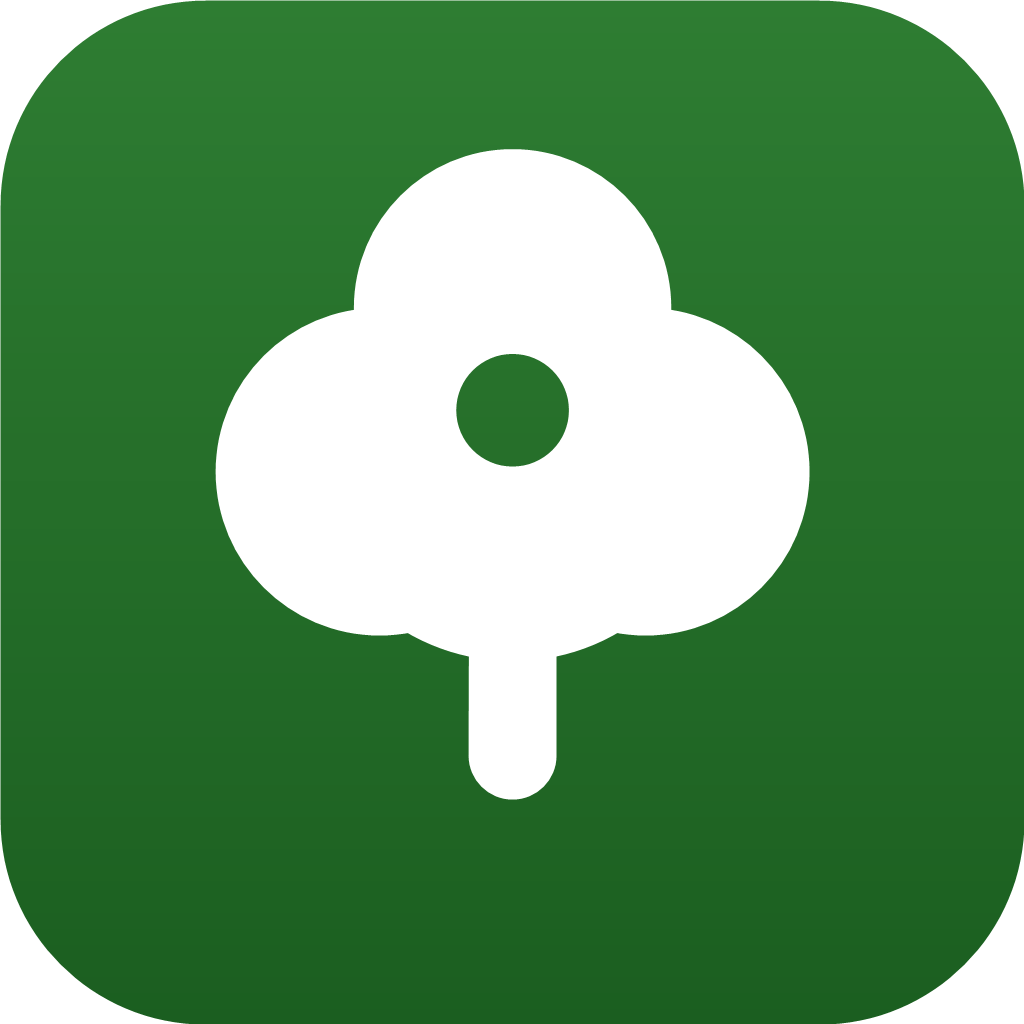
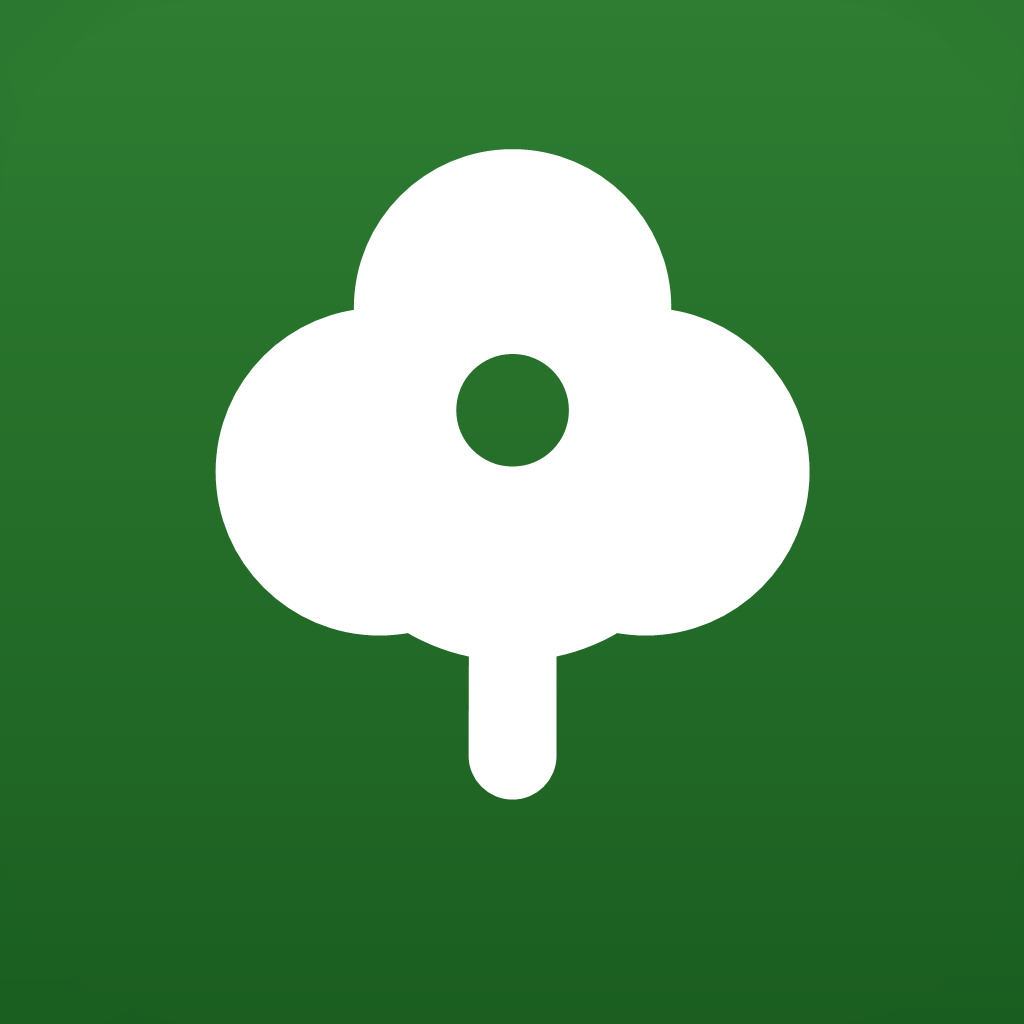
Dexware-Rebrand: CraftDex, DokuDex, TourDex, SchutzDex + Cross-Promo-Hub
Neue Anzeigenamen in App, Landing und Legal; WinterDex ueberall in die
Cross-Promo aufgenommen; Sektion "Entdecke die ganze Dexware" mit Link
auf den Dexware-Hub (craftlogapp.github.io). Technische IDs unveraendert.

diff --git a/index.html b/index.html
@@ -3,8 +3,8 @@
 <head>
   <meta charset="UTF-8" />
   <meta name="viewport" content="width=device-width, initial-scale=1.0" />
-  <title>CraftLog — Dein Projekt-Tagebuch</title>
-  <meta name="description" content="CraftLog ist das Projekt-Tagebuch für alles was du baust, lernst und trainierst. Schritte, Fotos, Kosten, Statistiken und Erinnerungen — an einem Ort." />
+  <title>CraftDex — Dein Projekt-Tagebuch</title>
+  <meta name="description" content="CraftDex ist das Projekt-Tagebuch für alles was du baust, lernst und trainierst. Schritte, Fotos, Kosten, Statistiken und Erinnerungen — an einem Ort." />
   <link rel="preconnect" href="https://fonts.googleapis.com">
   <link rel="preconnect" href="https://fonts.gstatic.com" crossorigin>
   <link href="https://fonts.googleapis.com/css2?family=Fraunces:opsz,wght@9..144,500;9..144,600;9..144,700&family=DM+Sans:wght@400;500;700&display=swap" rel="stylesheet">
@@ -124,7 +124,7 @@
           <rect width="100" height="100" rx="24" fill="#252118"/>
           <path d="M68 32 A24 24 0 1 0 68 68" stroke="#E8C97A" stroke-width="13" stroke-linecap="round" fill="none"/>
         </svg>
-        CraftLog
+        CraftDex
       </div>
       <nav>
         <a href="#features">Features</a>
@@ -150,8 +150,8 @@
         <span data-lang="en">Capture <span class="gold">what you build.</span></span>
       </h1>
       <p>
-        <span data-lang="de">Vom Schneidebrett über den Halbmarathon bis zur Sprachprüfung — CraftLog dokumentiert jeden Schritt, Fotos, Kosten und deinen Fortschritt. Mit Statistiken, Streak und Erinnerungen.</span>
-        <span data-lang="en">From a cutting board to a half marathon to a language exam — CraftLog documents every step, photos, costs and your progress. With statistics, streak and reminders.</span>
+        <span data-lang="de">Vom Schneidebrett über den Halbmarathon bis zur Sprachprüfung — CraftDex dokumentiert jeden Schritt, Fotos, Kosten und deinen Fortschritt. Mit Statistiken, Streak und Erinnerungen.</span>
+        <span data-lang="en">From a cutting board to a half marathon to a language exam — CraftDex documents every step, photos, costs and your progress. With statistics, streak and reminders.</span>
       </p>
       <div class="cta" id="download">
         <a class="btn btn-primary" href="#">Google Play</a>
@@ -258,23 +258,29 @@
 
     <section id="apps">
       <div class="section-label">
-        <span data-lang="de">Mehr von uns</span>
-        <span data-lang="en">More from us</span>
+        <span data-lang="de">Die Dexware-Familie</span>
+        <span data-lang="en">The Dexware family</span>
       </div>
       <h2 class="section-title">
-        <span data-lang="de">Weitere Apps</span>
-        <span data-lang="en">More apps</span>
+        <span data-lang="de">Entdecke die ganze Dexware</span>
+        <span data-lang="en">Discover the whole Dexware suite</span>
       </h2>
       <div class="features">
+        <a class="card applink" href="https://craftlogapp.github.io/winterdex-web">
+          <img class="appimg" src="winterdex-icon.png" alt="WinterDex" width="56" height="56" />
+          <h3>WinterDex</h3>
+          <p><span data-lang="de">Winterdienst-Nachweis – Räum- & Streueinsätze gerichtsfest dokumentieren.</span><span data-lang="en">Winter service log — court-proof records of clearing & gritting.</span></p>
+          <span class="more"><span data-lang="de">Ansehen →</span><span data-lang="en">View →</span></span>
+        </a>
         <a class="card applink" href="https://craftlogapp.github.io/routelog-web">
-          <img class="appimg" src="routelog-icon.png" alt="RouteLog" width="56" height="56" />
-          <h3>RouteLog</h3>
+          <img class="appimg" src="routelog-icon.png" alt="TourDex" width="56" height="56" />
+          <h3>TourDex</h3>
           <p><span data-lang="de">Automatisches Fahrtenbuch für Selbstständige.</span><span data-lang="en">Automatic mileage logbook for the self-employed.</span></p>
           <span class="more"><span data-lang="de">Ansehen →</span><span data-lang="en">View →</span></span>
         </a>
         <a class="card applink" href="https://craftlogapp.github.io/archio-web">
-          <img class="appimg" src="archio-icon.png" alt="Archio" width="56" height="56" />
-          <h3>Archio</h3>
+          <img class="appimg" src="archio-icon.png" alt="DokuDex" width="56" height="56" />
+          <h3>DokuDex</h3>
           <p><span data-lang="de">Dokumente scannen und per KI verstehen – Belege, Verträge und mehr.</span><span data-lang="en">Scan documents and understand them with AI — receipts, contracts & more.</span></p>
           <span class="more"><span data-lang="de">Ansehen →</span><span data-lang="en">View →</span></span>
         </a>
@@ -285,8 +291,8 @@
           <span class="more"><span data-lang="de">Ansehen →</span><span data-lang="en">View →</span></span>
         </a>
         <a class="card applink" href="https://craftlogapp.github.io/schutzheld-web">
-          <img class="appimg" src="schutzheld-icon.png" alt="Schutzheld" width="56" height="56" />
-          <h3>Schutzheld</h3>
+          <img class="appimg" src="schutzheld-icon.png" alt="SchutzDex" width="56" height="56" />
+          <h3>SchutzDex</h3>
           <p><span data-lang="de">Arbeitsschutz-Unterweisung & Gefährdungsbeurteilung – prüffest dokumentiert.</span><span data-lang="en">Workplace-safety briefings & risk assessment — audit-proof.</span></p>
           <span class="more"><span data-lang="de">Ansehen →</span><span data-lang="en">View →</span></span>
         </a>
@@ -297,20 +303,26 @@
           <span class="more"><span data-lang="de">Ansehen →</span><span data-lang="en">View →</span></span>
         </a>
       </div>
+      <p style="text-align:center;margin-top:28px">
+        <a class="btn btn-ghost" href="https://craftlogapp.github.io/">
+          <span data-lang="de">Alle Dexware-Apps auf einen Blick →</span>
+          <span data-lang="en">All Dexware apps at a glance →</span>
+        </a>
+      </p>
     </section>
   </div>
 
   <footer>
     <div class="wrap">
-      <div class="foot-brand">CraftLog</div>
+      <div class="foot-brand">CraftDex</div>
       <div>
         <a href="datenschutz.html"><span data-lang="de">Datenschutz</span><span data-lang="en">Privacy</span></a>
         <a href="agb.html"><span data-lang="de">AGB</span><span data-lang="en">Terms</span></a>
         <a href="impressum.html"><span data-lang="de">Impressum</span><span data-lang="en">Legal Notice</span></a>
       </div>
       <p style="margin-top:16px">
-        <span data-lang="de">© 2026 CraftLog. Mit ♥ gebaut.</span>
-        <span data-lang="en">© 2026 CraftLog. Built with ♥.</span>
+        <span data-lang="de">© 2026 CraftDex. Mit ♥ gebaut.</span>
+        <span data-lang="en">© 2026 CraftDex. Built with ♥.</span>
       </p>
     </div>
   </footer>

diff --git a/datenschutz.html b/datenschutz.html
@@ -3,7 +3,7 @@
 <head>
 <meta charset="UTF-8" />
 <meta name="viewport" content="width=device-width, initial-scale=1.0" />
-<title>Datenschutzerklärung — CraftLog</title>
+<title>Datenschutzerklärung — CraftDex</title>
 <style>
   body { background:#1C1A14; color:#F3EEE0; font-family: system-ui, sans-serif; line-height:1.7; max-width:760px; margin:0 auto; padding:48px 24px; }
   h1 { font-size:32px; margin-bottom:8px; }
@@ -42,9 +42,9 @@
 <!-- ===================== DEUTSCH ===================== -->
 <div data-lang="de">
 <h1>Datenschutzerklärung</h1>
-<p class="muted">App: CraftLog (com.craftlog.app) · Stand: Juni 2026</p>
+<p class="muted">App: CraftDex (com.craftlog.app) · Stand: Juni 2026</p>
 
-<p>Diese Datenschutzerklärung informiert dich darüber, welche personenbezogenen Daten bei der Nutzung der App CraftLog verarbeitet werden, zu welchem Zweck und welche Rechte dir zustehen.</p>
+<p>Diese Datenschutzerklärung informiert dich darüber, welche personenbezogenen Daten bei der Nutzung der App CraftDex verarbeitet werden, zu welchem Zweck und welche Rechte dir zustehen.</p>
 
 <h2>1. Verantwortlicher</h2>
 <div class="box">
@@ -56,7 +56,7 @@ E-Mail: <a href="mailto:2easy4trash@gmail.com">2easy4trash@gmail.com</a>
 </div>
 
 <h2>2. Grundsatz: lokale Nutzung möglich</h2>
-<p>CraftLog kann vollständig <strong>ohne Konto</strong> genutzt werden. In diesem Fall werden alle Daten (Projekte, Schritte, Material, Kosten, Zeiten, Fotos) <strong>ausschließlich lokal auf deinem Gerät</strong> gespeichert und nicht an uns oder Dritte übertragen.</p>
+<p>CraftDex kann vollständig <strong>ohne Konto</strong> genutzt werden. In diesem Fall werden alle Daten (Projekte, Schritte, Material, Kosten, Zeiten, Fotos) <strong>ausschließlich lokal auf deinem Gerät</strong> gespeichert und nicht an uns oder Dritte übertragen.</p>
 <p>Erst wenn du dich für die optionale <strong>Cloud-Synchronisierung</strong> anmeldest, werden Daten zu unserem Dienstleister übertragen (siehe Punkt 4).</p>
 
 <h2>3. Welche Daten werden verarbeitet?</h2>
@@ -119,9 +119,9 @@ Du kannst dein Konto und alle zugehörigen Daten jederzeit löschen – direkt i
 <!-- ===================== ENGLISH ===================== -->
 <div data-lang="en">
 <h1>Privacy Policy</h1>
-<p class="muted">App: CraftLog (com.craftlog.app) · As of: June 2026</p>
+<p class="muted">App: CraftDex (com.craftlog.app) · As of: June 2026</p>
 
-<p>This privacy policy informs you about which personal data is processed when using the CraftLog app, for what purpose, and which rights you have.</p>
+<p>This privacy policy informs you about which personal data is processed when using the CraftDex app, for what purpose, and which rights you have.</p>
 
 <h2>1. Controller</h2>
 <div class="box">
@@ -133,7 +133,7 @@ Email: <a href="mailto:2easy4trash@gmail.com">2easy4trash@gmail.com</a>
 </div>
 
 <h2>2. Principle: local use possible</h2>
-<p>CraftLog can be used entirely <strong>without an account</strong>. In that case all data (projects, steps, materials, costs, times, photos) is stored <strong>exclusively locally on your device</strong> and is not transmitted to us or any third party.</p>
+<p>CraftDex can be used entirely <strong>without an account</strong>. In that case all data (projects, steps, materials, costs, times, photos) is stored <strong>exclusively locally on your device</strong> and is not transmitted to us or any third party.</p>
 <p>Only when you sign up for the optional <strong>cloud synchronization</strong> is data transmitted to our service provider (see point 4).</p>
 
 <h2>3. Which data is processed?</h2>

diff --git a/agb.html b/agb.html
@@ -3,7 +3,7 @@
 <head>
 <meta charset="UTF-8" />
 <meta name="viewport" content="width=device-width, initial-scale=1.0" />
-<title>AGB — CraftLog</title>
+<title>AGB — CraftDex</title>
 <style>
   body { background:#1C1A14; color:#F3EEE0; font-family: system-ui, sans-serif; line-height:1.7; max-width:760px; margin:0 auto; padding:48px 24px; }
   h1 { font-size:32px; margin-bottom:8px; }
@@ -40,10 +40,10 @@
 <p class="muted">Stand: Juni 2026</p>
 
 <h2>1. Geltungsbereich</h2>
-<p>Diese AGB gelten für die Nutzung der App „CraftLog" (nachfolgend „App"), angeboten von CraftLog.</p>
+<p>Diese AGB gelten für die Nutzung der App „CraftDex" (nachfolgend „App"), angeboten von CraftDex.</p>
 
 <h2>2. Leistungen</h2>
-<p>CraftLog ist eine App zum Dokumentieren persönlicher Projekte. Die Basisfunktionen sind kostenlos. Über ein optionales „Pro"-Abonnement werden zusätzliche Funktionen (u.&nbsp;a. unbegrenzte Projekte) freigeschaltet.</p>
+<p>CraftDex ist eine App zum Dokumentieren persönlicher Projekte. Die Basisfunktionen sind kostenlos. Über ein optionales „Pro"-Abonnement werden zusätzliche Funktionen (u.&nbsp;a. unbegrenzte Projekte) freigeschaltet.</p>
 
 <h2>3. Abonnement, Preise, Verlängerung</h2>
 <p>Das Pro-Abo ist als Monats- oder Jahresabo erhältlich. Die jeweils gültigen Preise werden vor dem Kauf im Google Play Store angezeigt. Das Abo verlängert sich automatisch um die gewählte Laufzeit, sofern es nicht rechtzeitig gekündigt wird. Kauf, Abrechnung und Verlängerung erfolgen über dein Google-Konto.</p>
@@ -73,10 +73,10 @@
 <p class="muted">Last updated: June 2026</p>
 
 <h2>1. Scope</h2>
-<p>These Terms and Conditions apply to the use of the "CraftLog" app (the "App"), offered by CraftLog.</p>
+<p>These Terms and Conditions apply to the use of the "CraftDex" app (the "App"), offered by CraftDex.</p>
 
 <h2>2. Services</h2>
-<p>CraftLog is an app for documenting personal projects. The basic features are free. An optional "Pro" subscription unlocks additional features (including unlimited projects).</p>
+<p>CraftDex is an app for documenting personal projects. The basic features are free. An optional "Pro" subscription unlocks additional features (including unlimited projects).</p>
 
 <h2>3. Subscription, prices, renewal</h2>
 <p>The Pro subscription is available as a monthly or annual plan. The applicable prices are shown before purchase in the Google Play Store. The subscription renews automatically for the chosen term unless cancelled in time. Purchase, billing and renewal are handled through your Google account.</p>

diff --git a/impressum.html b/impressum.html
@@ -3,7 +3,7 @@
 <head>
 <meta charset="UTF-8" />
 <meta name="viewport" content="width=device-width, initial-scale=1.0" />
-<title>Impressum — CraftLog</title>
+<title>Impressum — CraftDex</title>
 <style>
   body { background:#1C1A14; color:#F3EEE0; font-family: system-ui, sans-serif; line-height:1.7; max-width:760px; margin:0 auto; padding:48px 24px; }
   h1 { font-size:32px; margin-bottom:8px; }
